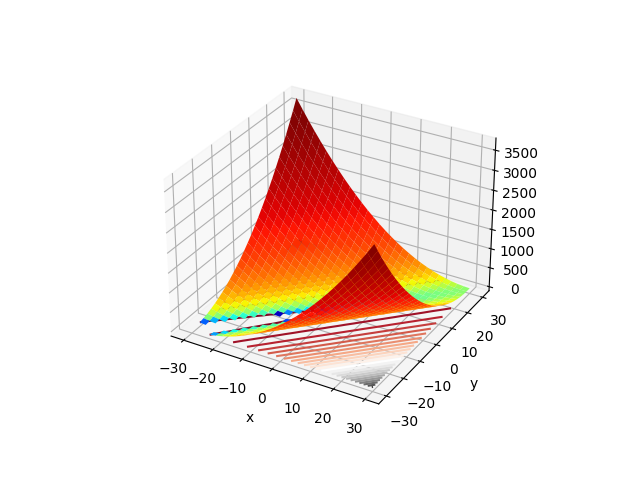
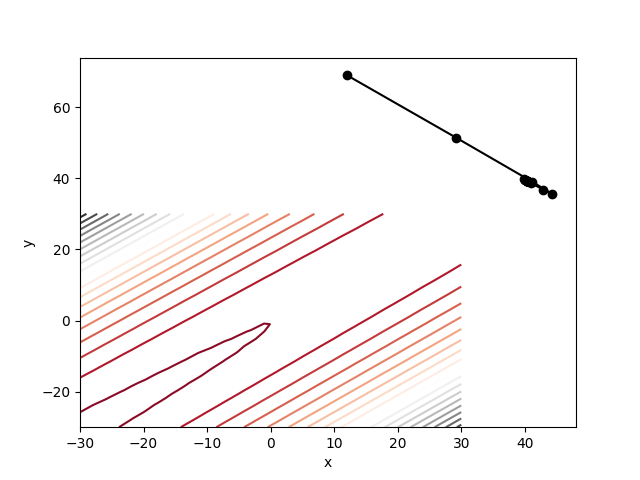
final commit

diff --git a/descente_gradient.py b/descente_gradient.py
@@ -8,8 +8,6 @@ from matplotlib.colors import LogNorm
 Données d'initisalisation pour les calculs
 """
 momentum = 0.3
-learning = 0.03
-maxIter = 300000
 tolerance = 1e-05
 b1 = 0.9
 b2 = 0.999
@@ -65,7 +63,6 @@ def gradient_descent2D(cost, start, learn_rate, tolerance, n_iter):
         if np.all(np.abs(normGrad) <= tolerance):
             df.loc[k + 1] = [k + 1, vector[0], vector[1], cost(vector[0], vector[1]), step[0], step[1], normGrad]
             break
-    # print(df)
     return df
 
 
@@ -113,22 +110,18 @@ def gradient_descent2D_AdAM(cost, start, learn_rate, momentum, tolerance, n_iter
     grad = numericalDerivative(cost, vector[0], vector[1], 1e-05)
     normGrad = np.linalg.norm(grad)
     step = np.array([0, 0])
-    #mk = 0  # moyenne mobile
     mk = np.array([0,0])
     vk = np.array([0,0])
     t=0
-    #vk = 0  # moyenne mobile
 
     for k in range(n_iter):
         t+=1
-        #grad = numericalDerivative(cost, vector[0], vector[1], 1e-05)
         grad = numericalDerivative(cost, vector[0], vector[1], 1e-05)
         mk = b1*mk + (1-b1) * grad #β1mk−1 + (1 − β1)∇fk
         vk = b2*vk + (1 - b2) * grad**2 # β2vk−1 + (1 − β2)∇fk ⊙ ∇fk
         m_corr = mk/(1-b1**t)
         v_corr = vk/(1-b2**t)
         step = learn_rate*m_corr/(np.sqrt(v_corr)+mfdg.epsilon)
-        #step = step - learn_rate * mk #learn_rate * grad + momentum * step
         vector = vector - step
         normGrad = np.linalg.norm(grad)
         df.loc[k] = [k, vector[0], vector[1], cost(vector[0], vector[1]), step[0], step[1], normGrad]
@@ -155,7 +148,6 @@ def affichage(resultDF,function):
     ax.set_xlabel('x')
     ax.set_ylabel('y')
     ax.contour(X, Y, Z, 30, cmap='RdGy', offset=-1)
-    #ax.plot(resultDF['X'],resultDF['Y'],'-o', color='black')
 
     figure2 = plt.figure(2)
     plt.contour(X, Y, Z, 20, cmap='RdGy')
@@ -187,17 +179,3 @@ if __name__ == "__main__":
     df4 = gradient_descent2D_AdAM(boothFunction, mfdg.point_init, mfdg.lambda_k, momentum, tolerance,
                                      mfdg.max_iter)
     affichage(df4,boothFunction)
-
-
-
-
-
-
-
-    # tester le momentum 0.9
-    # gradient_descent2DMomentum(fct, mfdg.point_init, mfdg.lambda_k, momentum, tolerance, mfdg.max_iter)
-    # test_derive(3)
-    # fct = lambda x: x**3
-    # https: // en.wikipedia.org / wiki / Test_functions_for_optimization
-    # steepest_descend(fct,2,mfdg.lambda_k, 0, mfd.epsilon, mfdg.max_iter)
-    # steepest_descend_2D(fct, mfdg.lambda_k, 0, mfdg.epsilon, mfdg.max_iter)

diff --git a/math_function_descente_gradient.py b/math_function_descente_gradient.py
@@ -2,18 +2,13 @@ import numpy as np
 
 h = 1e-9
 epsilon = 1e-6
-lambda_k = 0.8 #taille de pas λk > 0 (learning rate)
+lambda_k = 0.15 #taille de pas λk > 0 (learning rate)
 max_iter = 3000
-point_init = np.array([30,30])
+point_init = np.array([12,69])
 
-#f = lambda x: pow(x,3)
-deriv = lambda f,trucMuche: (f(trucMuche+h) - f(trucMuche))/h
+deriv = lambda f,x: (f(x+h) - f(x))/h
 def deriv_num(f, x, y):
     return np.array(deriv(f,x),deriv(f,y))
 
 gradient_1D = lambda f,x: np.array(deriv(f,x))
-#gradient_2D = lambda f,x,y: deriv_num(f,x,y)
-gradient_2D = lambda f,x,vegedream: np.array(deriv(f,x), deriv(f,vegedream))
-#gradient_2D = lambda f,x,y: np.array(deriv(f,x), deriv(f,y))
-
-#gradient_2D = lambda f,x,y: np.array((f(x+h) - f(x))/h, (f(y+h) - f(y))/h)
+gradient_2D = lambda f,x,y: np.array(deriv(f,x), deriv(f,y))
